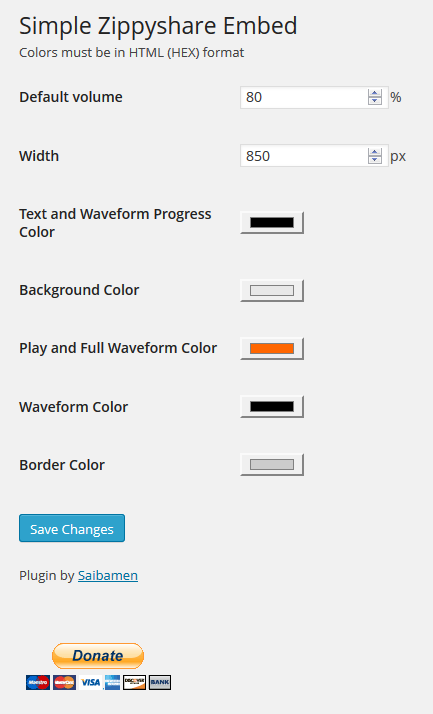
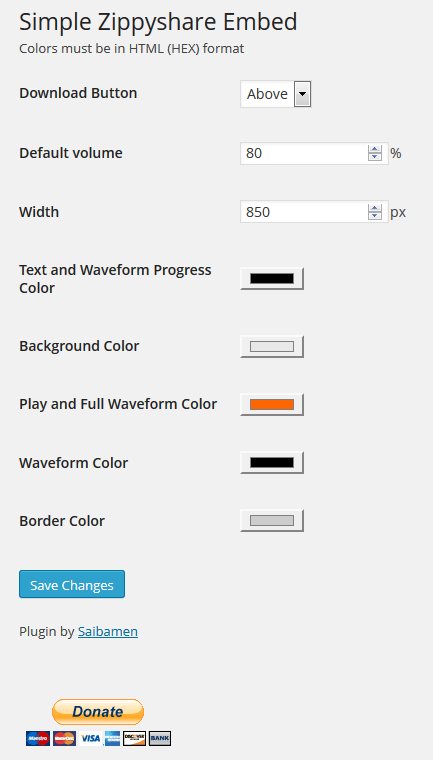
1.2 released :)
git-svn-id: https://plugins.svn.wordpress.org/simple-zippyshare-embed/trunk@929975 b8457f37-d9ea-0310-8a92-e5e31aec5664

diff --git a/zippy-embed.php b/zippy-embed.php
@@ -3,7 +3,7 @@
  * Plugin Name: Simple Zippyshare Embed
  * Plugin URI: http://it-maniak.pl
  * Description: Replace all zippyshare links to embed media.
- * Version: 1.1
+ * Version: 1.2
  * Author: Adam Stachowicz
  * Author URI: http://it-maniak.pl
  * License: GPLv2
@@ -33,7 +33,7 @@ register_uninstall_hook( __FILE__, 'zippy_delete_options' );
 
 // set default zippy values
 function zippy_set_up_options() {
-    add_option( 'zippydownbutt', 'under' );
+    add_option( 'zippydownbutt', 'above' );
     add_option( 'zippyvol', '80' );
     add_option( 'zippywidth', '850' );
     // colors
